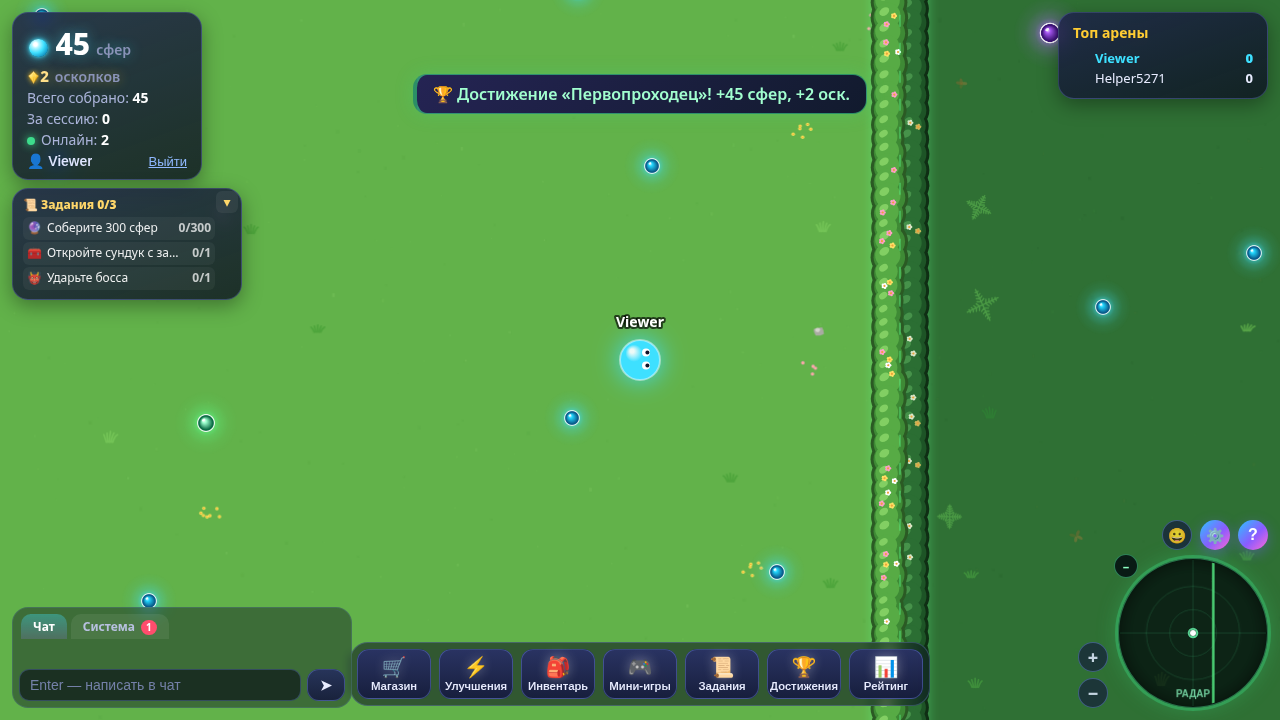
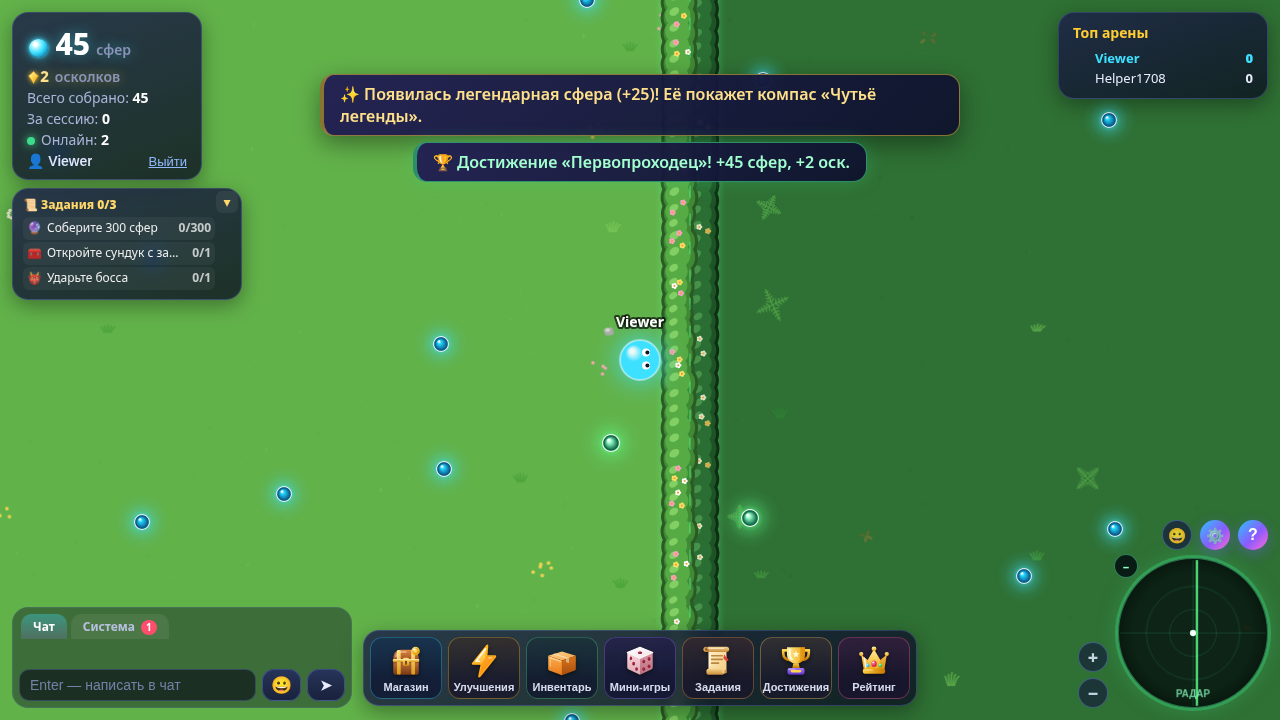
Door: fixed-position purchase prompt near zone-2 wall (mobile fix: .btn.primary position override pushed button off-screen); missing-orbs message, close+cooldown

diff --git a/test/door-prompt-test.js b/test/door-prompt-test.js
@@ -1,0 +1,36 @@
+// zone-2 door prompt on a phone: walk to the wall → prompt, not enough orbs → message, ✕ → hidden until you walk away, buy → unlocked.
+// Run: NODE_PATH=$PWD/node_modules node test/door-prompt-test.js  → screenshot-door-prompt-mobile.png
+const { chromium, devices } = require('playwright-core'); const { spawn } = require('child_process'); const fs = require('fs'); const G = require('../public/shared.js');
+const ROOT = process.cwd(), PORT = 3157, URL = 'http://localhost:' + PORT, sleep = ms => new Promise(r => setTimeout(r, ms)); let f = 0; const ok = (c, m) => { console.log((c ? 'PASS ' : 'FAIL ') + m); if (!c) f++; };
+(async () => {
+  try { fs.unlinkSync('/tmp/ocs-door.json'); } catch (_) {}
+  const proc = spawn(process.execPath, ['server.js'], { cwd: ROOT, env: Object.assign({}, process.env, { PORT: String(PORT), DATA_FILE: '/tmp/ocs-door.json', DATABASE_URL: '', EVENT_EVERY_MS: '0', OBSTACLES: '0', OCS_TEST_HOOKS: '1' }), stdio: 'ignore' });
+  for (let i = 0; i < 100; i++) { try { if ((await fetch(URL + '/api/health')).ok) break; } catch (_) {} await sleep(200); }
+  const b = await chromium.launch({ executablePath: '/usr/bin/google-chrome', args: ['--no-sandbox'] }); const errs = [];
+  async function run(opt, nick, shot) {
+    const p = await (await b.newContext(opt)).newPage(); p.on('pageerror', e => errs.push(e.message));
+    await p.goto(URL); await sleep(300); await p.click('.auth-tab[data-mode=register]'); await p.fill('#nick', nick); await p.fill('#pass', 'demo-pass-123'); await p.fill('#pass2', 'demo-pass-123'); await p.click('#authSubmit');
+    await p.click('#pfPlay'); await p.waitForSelector('#hud:not(.hidden)'); await sleep(600);
+    const em = (ev, d) => p.evaluate(([ev, d]) => window.OCSEmit(ev, d), [ev, d]);
+    const tp = async x => { await em('test:tp', { x, y: G.ZONE_H / 2 }); await sleep(900); };
+    await tp(G.ZONE_W - 300); ok(!(await p.isVisible('#doorPrompt')), nick + ': no prompt far from the wall');
+    await tp(G.ZONE_W - 30);
+    ok(await p.isVisible('#doorPrompt') && /Купить новую локацию/.test(await p.textContent('#doorPrompt')), nick + ': prompt at the wall');
+    const r = await p.evaluate(() => { const q = id => document.getElementById(id).getBoundingClientRect(); const d = q('doorPrompt'), bb = q('doorBtn'), bar = document.querySelector('.menu-buttons').getBoundingClientRect(); const hit = document.elementFromPoint(bb.left + bb.width / 2, bb.top + bb.height / 2); return { d: [d.left, d.top, d.right, d.bottom], W: innerWidth, H: innerHeight, overBar: d.bottom > bar.top, h: bb.height, hit: hit && hit.id }; });
+    ok(r.d[0] >= 0 && r.d[2] <= r.W && r.d[1] >= 0 && !r.overBar && r.h >= 44 && r.hit === 'doorBtn', nick + ': fits, above bottom bar, big tappable, on top ' + JSON.stringify(r));
+    ok(await p.$eval('#doorBtn', e => e.disabled) && /Не хватает 3\s?750 сфер/.test(await p.textContent('#doorMiss')), nick + ': not enough orbs → missing amount');
+    if (shot) { await sleep(3500); await p.screenshot({ path: shot }); }
+    await p.click('#doorClose'); await sleep(300); ok(!(await p.isVisible('#doorPrompt')), nick + ': ✕ hides');
+    await sleep(800); ok(!(await p.isVisible('#doorPrompt')), nick + ': no spam while still near');
+    await em('test:orbs', G.DOOR_COST + 10); await tp(G.ZONE_W - 400);
+    await sleep(15200); await tp(G.ZONE_W - 25);
+    ok(await p.isVisible('#doorPrompt') && !(await p.$eval('#doorBtn', e => e.disabled)) && !(await p.isVisible('#doorMiss')), nick + ': re-approach → prompt, buy enabled');
+    if (opt.hasTouch) await p.tap('#doorBtn'); else await p.click('#doorBtn'); await sleep(800);
+    const z = await p.evaluate(() => window.OCSZone()); ok(z.open && !(await p.isVisible('#doorPrompt')), nick + ': bought → zone 2 unlocked, prompt gone');
+    await tp(G.ZONE_W + 120); ok((await p.evaluate(() => window.OCSZone())).zone === 2, nick + ': can walk into zone 2');
+  }
+  await run(Object.assign({}, devices['iPhone 12']), 'DoorMob', ROOT + '/screenshot-door-prompt-mobile.png');
+  await run({ viewport: { width: 1280, height: 720 } }, 'DoorDesk', null);
+  ok(!errs.length, 'no page errors ' + errs.join(' | '));
+  await b.close(); proc.kill(); process.exit(f ? 1 : 0);
+})().catch(e => { console.error(e); process.exit(1); });

diff --git a/public/style.css b/public/style.css
@@ -433,8 +433,6 @@ canvas#game { position: fixed; inset: 0; width: 100%; height: 100%; display: blo
 .show-pw input { width: 16px; height: 16px; margin: 0; }
 
 /* zone-2 door unlock button (appears near the door) */
-.door-btn { position: absolute; left: 50%; bottom: 74px; transform: translateX(-50%); pointer-events: auto; z-index: 6; white-space: nowrap; box-shadow: 0 0 22px rgba(255,204,51,.45); }
-@media (max-width: 640px) { .door-btn { bottom: calc(176px + env(safe-area-inset-bottom)); font-size: 13px; max-width: 92vw; } }
 
 /* events: compact square chip instead of the big banner / HUD (those stay in the DOM, hidden) */
 #evBanner, #evHud { display: none !important; }
@@ -1025,3 +1023,17 @@ input[type=checkbox] { accent-color: var(--ui-cyan); }
 .chat-emote-picker .emo { width: 36px; height: 36px; font-size: 20px; }
 .chat-msg.emo-msg .emo-big, .chat-msg .emo-only { font-size: 28px; line-height: 1.15; vertical-align: middle; display: inline-block; filter: drop-shadow(0 2px 3px rgba(0,0,0,.4)); }
 @media (max-width: 640px) { .chat-emo { font-size: 20px; padding: 8px 10px; min-width: 44px; } .chat-emote-picker { bottom: calc(64px + env(safe-area-inset-bottom)); grid-template-columns: repeat(6, 40px); } .chat-emote-picker .emo { width: 40px; height: 40px; } }
+
+/* zone-2 door prompt (fixed, so no parent/.btn rule can push it off-screen) */
+.door-prompt { position: fixed; left: 50%; bottom: 96px; transform: translateX(-50%); z-index: 12; pointer-events: auto; width: min(340px, calc(100vw - 24px)); box-sizing: border-box; padding: 14px 16px 14px; border-radius: 18px; text-align: center; color: #fff;
+  background: linear-gradient(160deg, rgba(28,30,74,.95), rgba(10,14,30,.94)); border: 1px solid rgba(255,204,51,.55); box-shadow: 0 8px 28px rgba(0,0,0,.5), 0 0 24px rgba(255,204,51,.25); touch-action: manipulation; }
+.door-prompt.hidden { display: none !important; }
+.door-prompt .dp-title { font-weight: 800; font-size: 18px; margin: 0 22px 4px; }
+.door-prompt .dp-sub { font-size: 12.5px; opacity: .8; margin-bottom: 10px; }
+.door-prompt .dp-miss { font-size: 13px; font-weight: 700; color: #ff8a8a; margin-bottom: 8px; }
+.door-prompt .dp-miss.hidden { display: none; }
+.door-prompt .door-btn.btn.primary { position: relative; display: block; width: 100%; min-height: 48px; font-size: 17px; font-weight: 800; border-radius: 14px; }
+.door-prompt .door-btn.hidden { display: block !important; }
+.door-prompt .door-btn:disabled { filter: grayscale(.6); opacity: .65; }
+.door-prompt .door-x { position: absolute; top: 6px; right: 6px; width: 36px; height: 36px; border-radius: 50%; border: 1px solid rgba(120,150,255,.45); background: rgba(20,28,60,.85); color: #fff; font-size: 16px; cursor: pointer; }
+@media (max-width: 640px) { .door-prompt { bottom: auto; top: 30%; z-index: 30; } }

diff --git a/public/client.js b/public/client.js
@@ -501,12 +501,22 @@
   // ---- zones + door (zone 1 violet | wall with a door | zone 2 blue, rarer orbs). Unlock is a server action.
   const doorOpen = () => !!(profile && profile.stats && profile.stats.unlockedDoor2);
   window.OCSZone = () => ({ zone: G.zoneOf(me.x), open: doorOpen(), x: me.x, y: me.y });
+  // door prompt: shown once per approach when a locked player touches / comes within ~60px of the wall (zone-1 side);
+  // ✕ hides it until the player walks away (>220px) and for 15 s. Works with touch + mouse (plain buttons, fixed above the bottom bar).
+  let doorDismissed = false, doorCoolUntil = 0, doorWasNear = false;
   function updateDoorBtn() {
-    const b = $('doorBtn'); if (!b) return;
-    const near = joined && !doorOpen() && G.doorDist(me.x) < 360; // anywhere along the wall-door
-    b.classList.toggle('hidden', !near);
-    if (near) { b.disabled = profile.balance < G.DOOR_COST; b.innerHTML = `🚪 Открыть дверь во 2-ю зону · ${orbsH(G.DOOR_COST)}`; }
+    const b = $('doorBtn'), box = $('doorPrompt'); if (!b || !box) return;
+    const d = G.doorDist(me.x), locked = joined && profile && !doorOpen();
+    if (d > 220) doorDismissed = false;
+    const near = locked && me.x <= G.ZONE_W + 1 && d < G.PLAYER_R + 60 && !doorDismissed && performance.now() >= doorCoolUntil;
+    box.classList.toggle('hidden', !near); b.classList.toggle('hidden', !near);
+    if (!near) { doorWasNear = false; return; }
+    const miss = Math.max(0, G.DOOR_COST - (profile.balance || 0));
+    b.disabled = miss > 0; b.innerHTML = `Купить · ${orbsH(G.DOOR_COST)}`;
+    const m = $('doorMiss'); m.classList.toggle('hidden', !miss); if (miss) m.textContent = `Не хватает ${fmt(miss)} сфер (у вас ${fmt(profile.balance || 0)})`;
+    doorWasNear = true;
   }
+  $('doorClose').addEventListener('click', e => { e.stopPropagation(); doorDismissed = true; doorCoolUntil = performance.now() + 15000; updateDoorBtn(); });
   $('doorBtn').addEventListener('click', () => {
     socket.emit('door:unlock', null, res => {
       if (!res || !res.ok) { toast((res && res.error) || 'Ошибка', 'err'); return; }

diff --git a/public/index.html b/public/index.html
@@ -161,7 +161,13 @@
   <button id="emoteBtn" class="emote-btn" type="button" title="Эмоции" aria-label="Эмоции">😀</button><div id="emotePicker" class="emote-picker hidden"></div>
   <div id="radar" class="radar"><canvas id="minimap" width="150" height="150" aria-label="Радар"></canvas><button id="radarToggle" class="radar-toggle" type="button" title="Свернуть / развернуть радар">–</button></div>
   <div class="zoom-btns"><button type="button" id="zoomIn" title="Приблизить (колесо мыши / два пальца)" aria-label="Приблизить">+</button><button type="button" id="zoomOut" title="Отдалить" aria-label="Отдалить">−</button></div>
-  <button type="button" id="doorBtn" class="door-btn btn primary hidden"></button>
+  <div id="doorPrompt" class="door-prompt hidden" role="dialog" aria-label="Купить новую локацию">
+    <button type="button" id="doorClose" class="door-x" aria-label="Закрыть">✕</button>
+    <div class="dp-title">🚪 Купить новую локацию</div>
+    <div class="dp-sub">Зона 2: редкие сферы попадаются чаще</div>
+    <div id="doorMiss" class="dp-miss hidden"></div>
+    <button type="button" id="doorBtn" class="door-btn btn primary hidden"></button>
+  </div>
   <button type="button" id="admBtn" class="help-btn adm-btn hidden" title="Админ-панель" aria-label="Админ-панель">🛡</button>
   <button type="button" id="setBtn" class="help-btn set-btn" title="Настройки" aria-label="Настройки">⚙</button>
   <button type="button" id="helpBtn" class="help-btn" title="Виды сфер (H)" aria-label="Виды сфер">?</button>

diff --git a/test/screenshot-door-inv.js b/test/screenshot-door-inv.js
@@ -29,8 +29,8 @@ const CHROME = process.env.CHROME || ['/usr/bin/google-chrome', '/usr/bin/chromi
   await new Promise(r => s.on('connect', r));
   await call('auth', { mode: 'register', name: 'Helper' + Date.now() % 10000, password: PW, confirm: PW });
   // wall-door: far from the middle of the border (y=1200), locked → the unlock button shows here too
-  await call('test:tp', { name: 'Viewer', x: G.ZONE_W - 260, y: 1200 }); await sleep(5000);
-  const btn = await vp.evaluate(() => !document.getElementById('doorBtn').classList.contains('hidden'));
+  await call('test:tp', { name: 'Viewer', x: G.ZONE_W - G.PLAYER_R - 30, y: 1200 }); await sleep(5000);
+  const btn = await vp.evaluate(() => !document.getElementById('doorPrompt').classList.contains('hidden'));
   ok(btn, 'locked: unlock prompt shown next to the wall far from the old door spot (y=1200)');
   await vp.screenshot({ path: path.join(ROOT, 'screenshot-door-wall.png') });
   await call('test:stats', { name: 'Viewer', unlockedDoor2: true }); await sleep(800);
